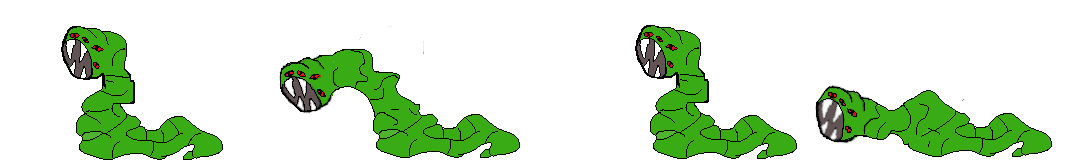
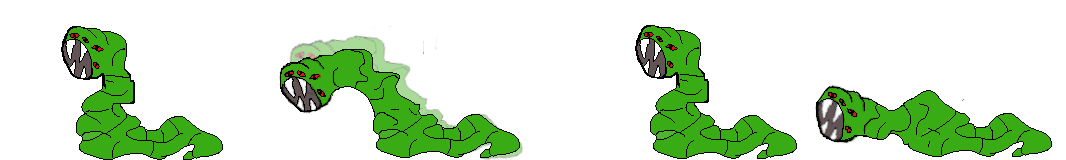
add test shadow when jumping - WIP

Changed region(s): [[0.2477, 0.2188, 0.4644, 0.8125], [0.4334, 0.9375, 0.4953, 1.0], [0.4334, 0.9062, 0.4644, 0.9375]]

diff --git a/js/ImageLoading.js b/js/ImageLoading.js
@@ -45,7 +45,7 @@ function loadImages() {
  
   var imageList = [
      //{ varName: heroPic, theFile: "rocketMan3.png"},
-     { varName: heroPic, theFile: "robo-explorer-walkcycle11.png"},
+     { varName: heroPic, theFile: "robo-explorer-walkcycle12.png"},
     //{ varName: heroPic, theFile: "animationCyleSprites.png"},
     // { varName: waterPic, theFile: "sewerWater.png" },
     { varName: ratPic, theFile: "rat-walk-cycle.png"},

diff --git a/js/Hero.js b/js/Hero.js
@@ -78,7 +78,7 @@ function heroClass() {
   //properties for sprite animation
   this.frame = 0;
   this.numberOfFrames = 8; //how many frames are in the spritesheet
-  this.animationSpeed = 2;
+  this.animationSpeed = 0;
   this.animationCounter = 0;
 
   this.setupInput = function (
